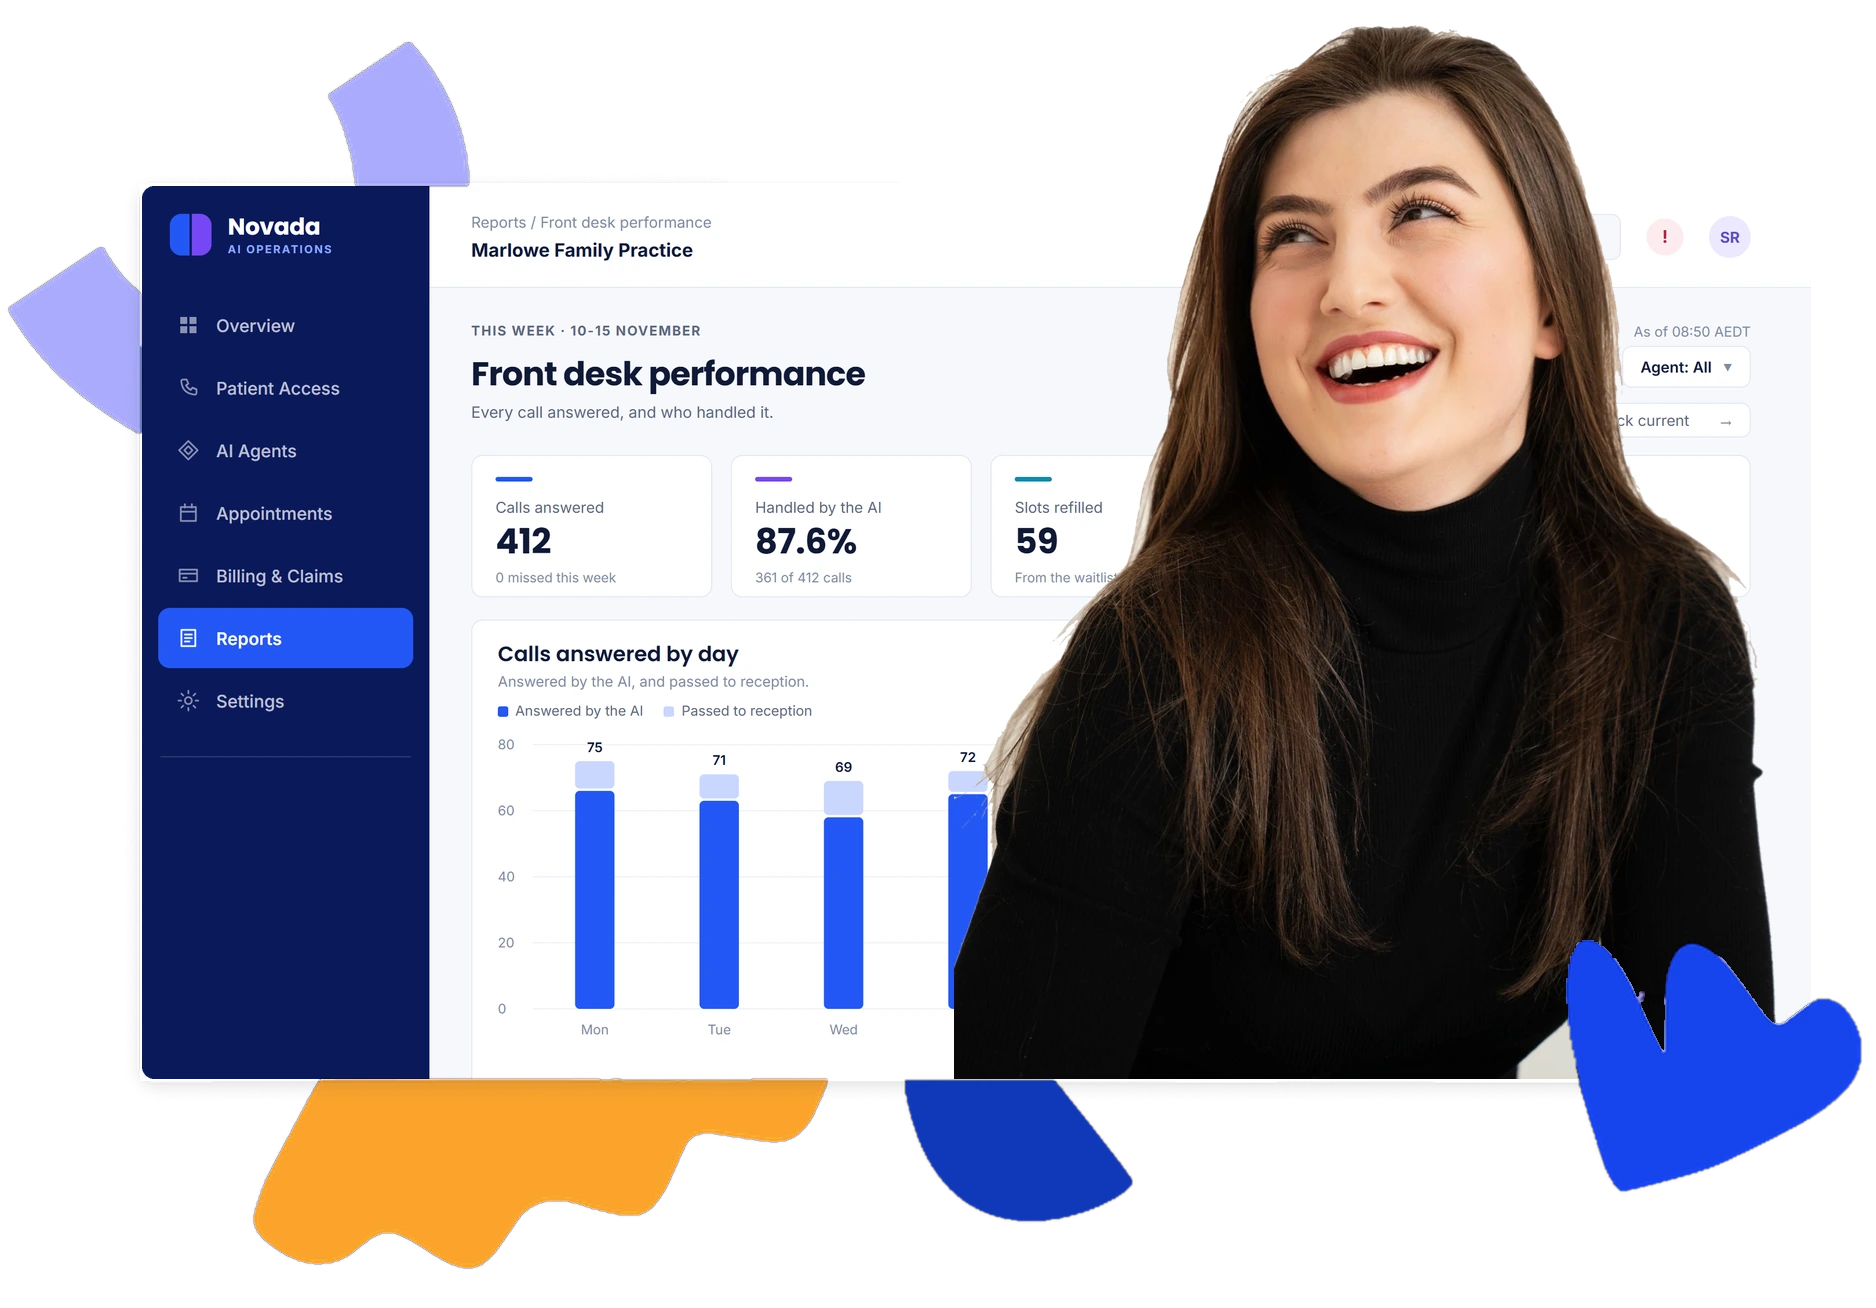
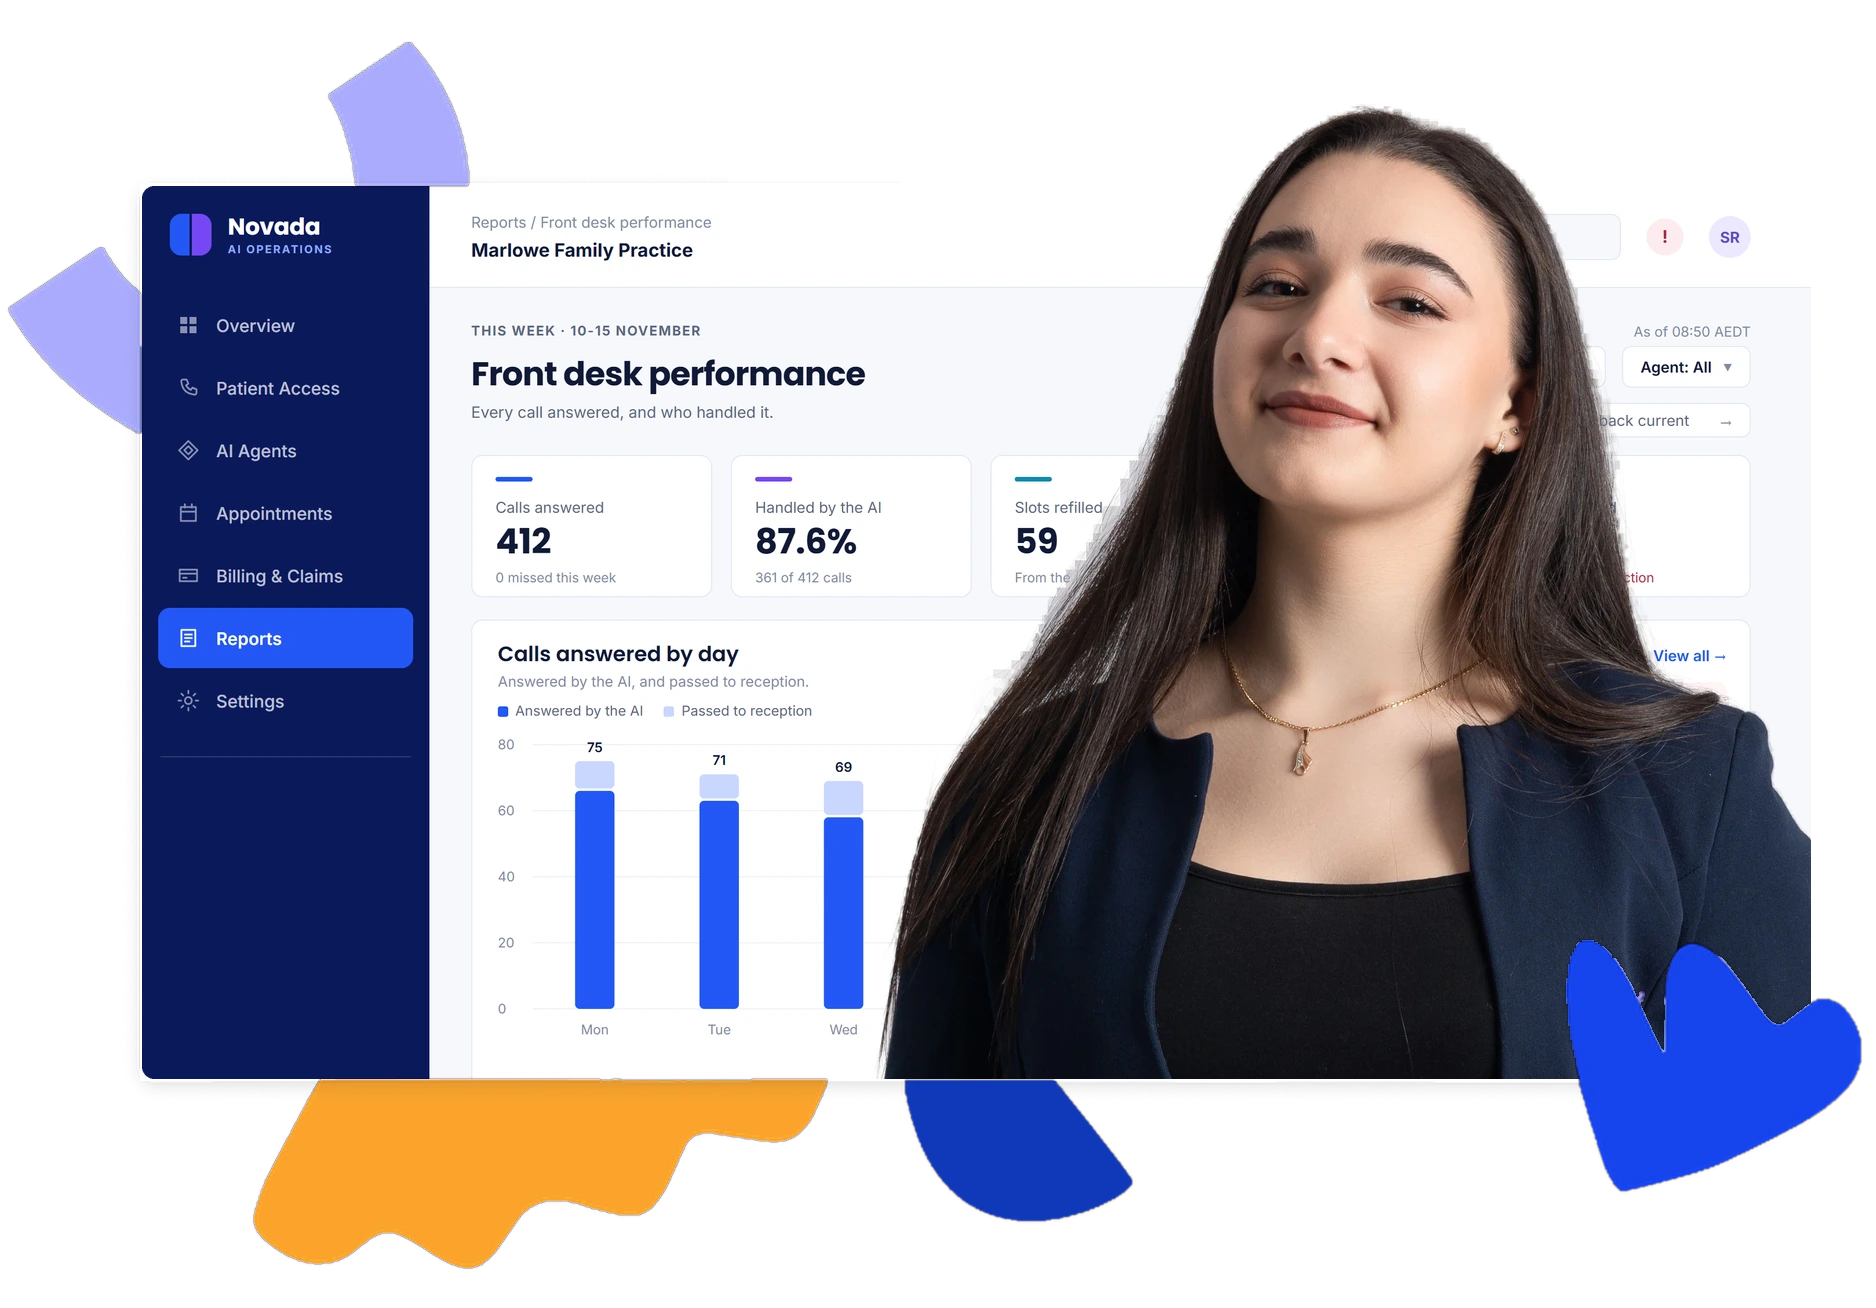
Drop "Deploy" from the headlines, Launch the CTAs, a different woman per hero
Founder instruction, 18 Nov 2026:
- headlines on home, care and practices no longer start with "Deploy"
- "Deploy your first/next ..." CTAs now read "Launch your ..."
- the home, practices and about heroes each get a different woman in
  the same style; care keeps the original figure

New figures are Pexels 1587009, 19989572 and 30479371, matted with
rembg and placed by face size and position to match the original.

Changed region(s): [[0.4638, 0.0, 0.9893, 0.8257]]

diff --git a/src/app/care/ai-workforce/AiWorkforcePage.tsx b/src/app/care/ai-workforce/AiWorkforcePage.tsx
@@ -1060,7 +1060,7 @@ export default function AiWorkforcePage({
                 style={SERIF}
                 className="mt-5 text-[clamp(2.1rem,1.35rem+3.2vw,3.5rem)] font-bold leading-[1.08] tracking-[-0.02em] text-ink-950"
               >
-                Deploy AI Operations Agents that actually run your care operations.
+                AI Operations Agents that actually run your care operations.
               </h1>
 
               {/* ⚠ TWO SENTENCES. The live page runs 130 words here and
@@ -1544,7 +1544,7 @@ export default function AiWorkforcePage({
               dark
               sub="A free 30-minute conversation about your operational workload, your systems, and which repetitive tasks could be handled safely. No obligation to proceed."
             >
-              Deploy your next AI operations team
+              Launch your next AI operations team
             </SectionHead>
 
             <div className="mx-auto mt-12 grid max-w-5xl gap-10 lg:grid-cols-[minmax(0,320px)_minmax(0,1fr)] lg:gap-12">

diff --git a/src/app/practices/ai-workforce/AiWorkforcePage.tsx b/src/app/practices/ai-workforce/AiWorkforcePage.tsx
@@ -788,7 +788,7 @@ export default function AiWorkforcePage() {
                 style={SERIF}
                 className="mt-5 text-[clamp(2.1rem,1.35rem+3.2vw,3.5rem)] font-bold leading-[1.08] tracking-[-0.02em] text-ink-950"
               >
-                Deploy AI Operations Agents that actually run your practice
+                AI Operations Agents that actually run your practice
                 administration.
               </h1>
 
@@ -1226,7 +1226,7 @@ export default function AiWorkforcePage() {
               dark
               sub="A free 30-minute conversation about your front desk, your systems, and which administrative work could be handled safely. No obligation to proceed."
             >
-              Deploy your next AI practice team
+              Launch your next AI practice team
             </SectionHead>
 
             <div className="mx-auto mt-12 grid max-w-5xl gap-10 lg:grid-cols-[minmax(0,320px)_minmax(0,1fr)] lg:gap-12">

diff --git a/src/app/HomePage.tsx b/src/app/HomePage.tsx
@@ -285,7 +285,7 @@ export default function HomePage() {
                 style={SERIF}
                 className="mt-5 text-[clamp(2.1rem,1.35rem+3.2vw,3.5rem)] font-bold leading-[1.08] tracking-[-0.02em] text-ink-950"
               >
-                Deploy AI Operations Agents that do the work. Not just tell you what needs
+                AI Operations Agents that do the work. Not just tell you what needs
                 doing.
               </h1>
 
@@ -592,7 +592,7 @@ export default function HomePage() {
               dark
               sub="Both start with a free 30-minute conversation about your workload, your systems and which work could be handled safely. No obligation to proceed."
             >
-              Deploy your first AI Operations Agent
+              Launch your first AI Operations Agent
             </SectionHead>
 
             <div className="mx-auto mt-12 grid max-w-3xl gap-5 sm:grid-cols-2">

diff --git a/tools/hero-build/hero_build_all.py b/tools/hero-build/hero_build_all.py
@@ -43,14 +43,14 @@ DASH = os.path.join(HERE, "dash", "out", "%s.png")
 # variant -> output files. The AU care hero is NOT in this table: it was
 # approved on the real Figma export and is left exactly as it shipped.
 JOBS = [
-    ("care-au",      [os.path.join(AU, "hero-workforce.webp")]),
-    ("practices-au", [os.path.join(AU, "hero-practices.webp")]),
-    ("home-au",      [os.path.join(AU, "hero-home.webp")]),
-    ("why-au",       [os.path.join(AU, "hero-why.webp")]),
-    ("care-us",      [os.path.join(US, "hero-workforce.webp")]),
-    ("practices-us", [os.path.join(US, "hero-practices.webp")]),
-    ("home-us",      [os.path.join(US, "hero-home.webp")]),
-    ("why-us",       [os.path.join(US, "hero-why.webp")]),
+    ("care-au",      [os.path.join(AU, "hero-workforce.webp")], "figure"),
+    ("practices-au", [os.path.join(AU, "hero-practices.webp")], "practices"),
+    ("home-au",      [os.path.join(AU, "hero-home.webp")], "home"),
+    ("why-au",       [os.path.join(AU, "hero-why.webp")], "why"),
+    ("care-us",      [os.path.join(US, "hero-workforce.webp")], "figure"),
+    ("practices-us", [os.path.join(US, "hero-practices.webp")], "practices"),
+    ("home-us",      [os.path.join(US, "hero-home.webp")], "home"),
+    ("why-us",       [os.path.join(US, "hero-why.webp")], "why"),
 ]
 
 # Panel rect, measured from hero.png's ALPHA, not by eye.
@@ -64,6 +64,40 @@ RADIUS = 6 * S
 
 HEAD_TOP, CHIN, HAIR_RIGHT = 12 * S, 245 * S, 905 * S
 CHIN_FRAC = 0.373            # chin height as a fraction of the cutout
+
+# ── THE FIGURES ──────────────────────────────────────────────────────
+# Founder, 18 Nov 2026: a DIFFERENT woman on the home, practices and
+# about heroes, same style. Care keeps the original (figure.webp).
+# Each new one is placed by matching FACE SIZE and FACE POSITION to the
+# original, measured on a shared ruler in the finished heroes: the
+# original's brow-to-chin is ~210px and her chin sits at y~410, face
+# centre x~1335 (2x hero px). ⚠ NOT hair-top-to-chin: the original has
+# a lot of hair and her head is tipped back laughing, so a hair-based
+# match made every new face sit ~90px low and the practices one ~28% big.
+# Source px per figure: (file, hair top, chin, face centre x, size mult).
+# The practices shot is full-length, so her head is small in frame; the
+# mult brings her face to the same size, which also keeps her shoulders
+# off the bar chart. home + why are 0.92 so their hair clears the top
+# edge of the image (at 1.00 it ran ~16px past y=0 and was cut flat).
+#   Pexels 1587009  -> figure-home       (folder, navy sweater)
+#   Pexels 19989572 -> figure-practices  Weijia MA (navy blazer)
+#   Pexels 30479371 -> figure-why        (black blazer)
+#   all matted with rembg isnet-general-use; Pexels licence
+HEAD_SPAN, FACE_X, CHIN_Y = 427, 1335, 410
+FIGS = {
+    "home":      ("figure-home.webp",      38, 914, 1025, 0.92),
+    "practices": ("figure-practices.webp", 20, 539,  857, 0.69),
+    "why":       ("figure-why.webp",       22, 867,  933, 0.92),
+}
+
+def place(key):
+    if key == "figure":
+        return lady, LX, LY
+    f, top, chin, cx, mult = FIGS[key]
+    im = Image.open(os.path.join(HERE, "assets", f)).convert("RGBA")
+    sc = HEAD_SPAN / (chin - top) * mult
+    im = im.resize((round(im.width * sc), round(im.height * sc)), Image.LANCZOS)
+    return im, round(FACE_X - cx * sc), round(CHIN_Y - chin * sc)
 
 base0 = Image.open(HERO).convert("RGBA").resize((W, H), Image.LANCZOS)
 orig = np.array(base0)
@@ -110,7 +144,7 @@ ImageDraw.Draw(mask).rounded_rectangle([0, 0, PW * 2 - 1, PH * 2 - 1], RADIUS * 
 mask = mask.resize((PW, PH), Image.LANCZOS)
 
 fail = 0
-for variant, outs in JOBS:
+for variant, outs, figkey in JOBS:
     src = DASH % variant
     if not os.path.exists(src):
         print("  MISSING dashboard:", src); fail += 1; continue
@@ -139,9 +173,12 @@ for variant, outs in JOBS:
     base.alpha_composite(panel, (PX0, PY0))
 
     layer = Image.new("RGBA", (W, H), (0, 0, 0, 0))
-    layer.alpha_composite(lady, (LX, LY))
+    fig, fx, fy = place(figkey)
+    layer.alpha_composite(fig, (fx, fy))
     clip = np.array(layer)
     clip[PY1:, :, 3] = 0                        # cut her at the panel bottom
+    if figkey != "figure":
+        clip[:, PX1:, 3] = 0                    # and at its right edge
     base.alpha_composite(Image.fromarray(clip, "RGBA"))
     base.alpha_composite(blob_img)
 

diff --git a/tools/hero-build/README.md b/tools/hero-build/README.md
@@ -9,7 +9,7 @@ build: run it by hand when a hero needs to change, then commit the
 ```
 hero.png  ──►  frame: HiBob's layout, blobs, placement, colours  ── UNCHANGED
 dash/out  ──►  the dashboard inside the panel                    ── per page
-assets/   ──►  the figure                                        ── same everywhere
+assets/   ──►  the figure                                        ── per page (18 Nov)
 ```
 
 Only the dashboard changes between pages. The frame and the figure are
@@ -30,6 +30,27 @@ marketing, modification allowed, no attribution required, but: *"don't
 imply endorsement of your product by people or brands."* She appears
 beside the product, unnamed and unquoted. **Never place this image next
 to a testimonial, a name or a quotation.**
+
+## The figures (18 Nov 2026)
+
+Founder: a different woman on the home, practices and about heroes, same
+style. Care keeps `figure.webp` (Pexels 35696305). The others, all Pexels
+licence, matted with rembg `isnet-general-use` (flood-fill left white
+halos in the hair):
+
+| page | file | Pexels |
+|---|---|---|
+| home | `figure-home.webp` | 1587009 |
+| practices | `figure-practices.webp` | 19989572, Weijia MA |
+| about | `figure-why.webp` | 30479371 |
+
+⚠ Placed by FACE size and position (brow-to-chin ~210px, chin y~410,
+face centre x~1335), not hair-top-to-chin: the original's hair volume
+made the first attempt put every new face ~90px low. ⚠ A close-up shot
+does not work: it ends mid-panel. Pick waist-up framing.
+
+rembg's model download fails behind the TLS proxy; fetch
+`isnet-general-use.onnx` with curl into `~/.u2net/`.
 
 ## The four screens
 
